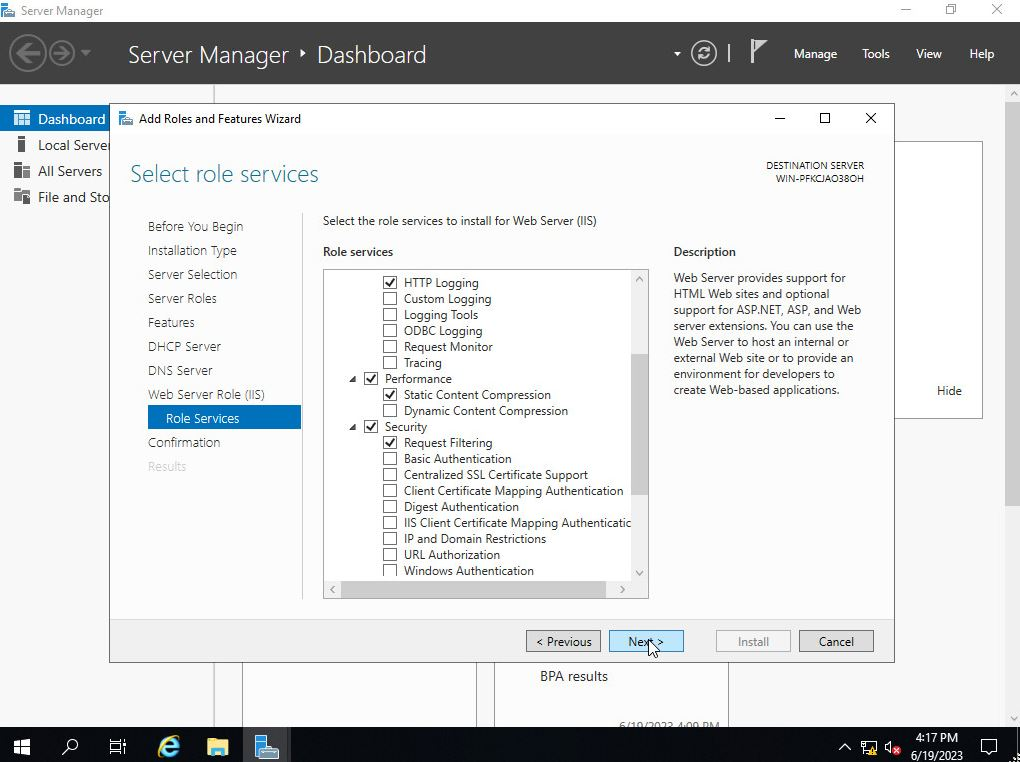
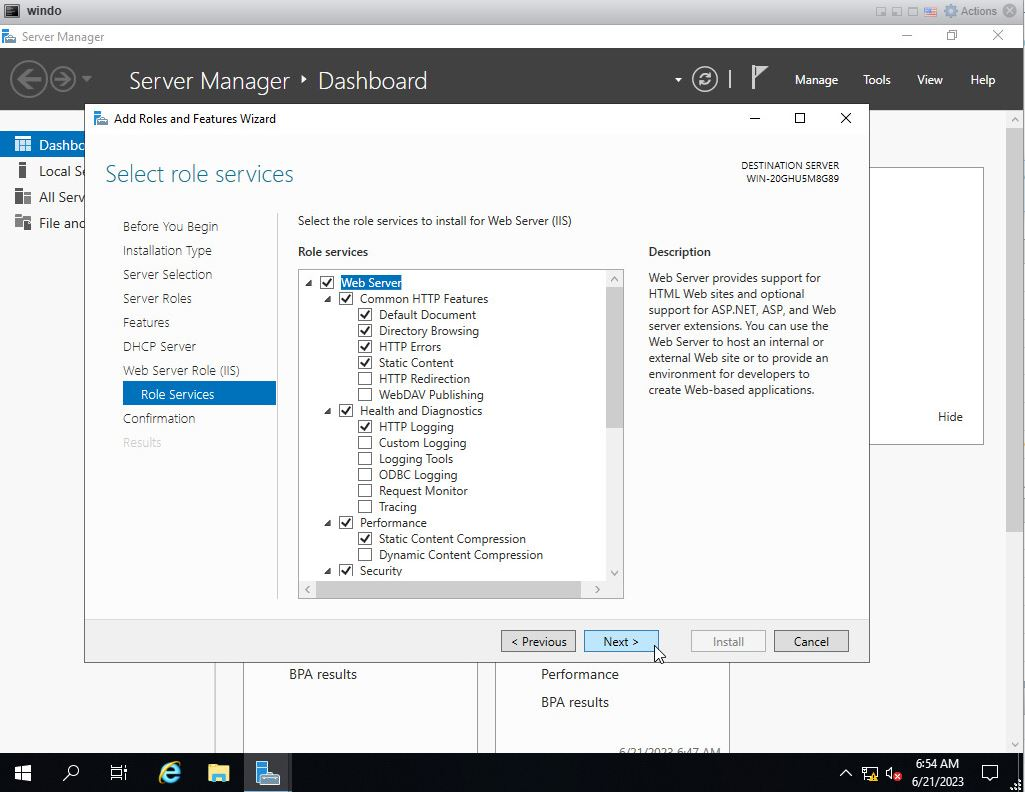
final proof

diff --git a/firstIsoVM.md b/firstIsoVM.md
@@ -123,7 +123,7 @@ We will be doing the following:
     10. click the checkbox next to the DHCP server role, then click 'add features' (screenshots [1](https://github.com/mynah22/Homelab-Guides/raw/main/screenshots/firstConfig/iso35.jpg) [2](https://github.com/mynah22/Homelab-Guides/raw/main/screenshots/firstConfig/iso36.jpg))
     10. click the checkbox next to the Web Server (IIS) role, then click 'add features' (screenshots [1](https://github.com/mynah22/Homelab-Guides/raw/main/screenshots/firstConfig/iso57.jpg) [2](https://github.com/mynah22/Homelab-Guides/raw/main/screenshots/firstConfig/iso58.jpg)
     11. click 'Next' 
-        ![screenshot](https://github.com/mynah22/Homelab-Guides/raw/main/screenshots/firstConfig/iso37.jpg)
+        ![screenshot](https://github.com/mynah22/Homelab-Guides/raw/main/screenshots/firstConfig/iso37_2.jpg)
     12. click 'Next' without adding any features ([screenshot](https://github.com/mynah22/Homelab-Guides/raw/main/screenshots/firstConfig/iso38.jpg))
     13. click 'Next' on the DHCP server screen ([screenshot](https://github.com/mynah22/Homelab-Guides/raw/main/screenshots/firstConfig/iso39.jpg))
     13. click 'Next' on the Web Server (IIS) screen ([screenshot](https://github.com/mynah22/Homelab-Guides/raw/main/screenshots/firstConfig/iso60.jpg))
@@ -132,14 +132,15 @@ We will be doing the following:
 - ## Configure Networking
     We are going to set a static IP for the windows server on the same subnet that we configured for PFSense above
 
-    1. right click start menu > network connections (screenshots [1](https://github.com/mynah22/Homelab-Guides/raw/main/screenshots/firstConfig/iso62.jpg)) [2](https://github.com/mynah22/Homelab-Guides/raw/main/screenshots/firstConfig/iso63.jpg)))
+    1. right click start menu > network connections (screenshots [1](https://github.com/mynah22/Homelab-Guides/raw/main/screenshots/firstConfig/iso62.jpg) [2](https://github.com/mynah22/Homelab-Guides/raw/main/screenshots/firstConfig/iso63.jpg)))
     2. click 'change adapter options'. Then, right click the Ethernet network and click 'Properties' (screenshots [1](https://github.com/mynah22/Homelab-Guides/raw/main/screenshots/firstConfig/iso65.jpg) [2](https://github.com/mynah22/Homelab-Guides/raw/main/screenshots/firstConfig/iso64.jpg)) 
     1. click 'Internet Protocol Version 4', then 'Properties' ([screenshot](https://github.com/mynah22/Homelab-Guides/raw/main/screenshots/firstConfig/iso66.jpg))
     1. IPV4 options ([screenshot](https://github.com/mynah22/Homelab-Guides/raw/main/screenshots/firstConfig/iso67.jpg))
         - Select the 'use the following IP address' radio button
-        - IP address: this will be the IP of the DNS, DHCP, and IIS server. It must be on the same subnet as the PFSense IP you configured for this interface
+        - IP address: this will be the IP of the windows server (therefore DHCP, and IIS). It must be on the same subnet as the PFSense IP you configured for this interface
         - Subnet mask: must match the subnet of the PFSense IP
-        - DNS servers: 127.0.0.1, 8.8.8.8
+        - Gateway: must be the PFSense IP on this interface
+        - DNS servers: 4.4.4.4, 8.8.8.8
         - Click 'OK'
     1. Close windows. You may see a pop up asking if you want to be discoverable on this network - click 'Yes' (screenshots [1](https://github.com/mynah22/Homelab-Guides/raw/main/screenshots/firstConfig/iso68.jpg) [2](https://github.com/mynah22/Homelab-Guides/raw/main/screenshots/firstConfig/iso68.jpg))
 - ## Configure DHCP server
@@ -220,7 +221,6 @@ We will be doing the following:
         - Destination port range: HTTP (80) (pick from drop down)
         - Click Save
     1. LAN to LAN3 HTTPS rule ([screenshot](https://github.com/mynah22/Homelab-Guides/raw/main/screenshots/firstConfig/iso103.jpg))
-        - Click 'LAN' ([screenshot](https://github.com/mynah22/Homelab-Guides/raw/main/screenshots/firstConfig/iso108.jpg))
         - Action: Pass
         - Interface: LAN
         - Address Family: IPv4
@@ -229,18 +229,18 @@ We will be doing the following:
         - Destination: LAN3 net
         - Destination port range: HTTPS (443) (pick from drop down)
         - Click Save
-    1. You should have three new rules set on LAN. MAke sure they are in this order, click 'apply changes' ([screenshot](https://github.com/mynah22/Homelab-Guides/raw/main/screenshots/firstConfig/iso110.jpg))
+    1. You should have three new rules set on LAN. Make sure they are in this order, click 'apply changes' ([screenshot](https://github.com/mynah22/Homelab-Guides/raw/main/screenshots/firstConfig/iso110.jpg))
 
 # Testing the network
 - ## LAN to LAN3 - HTTP(S) traffic passed
     We are hoping to be able to send port 80 and 443 traffic from LAN to LAN3, lets give it a try
     1. Ensure PC is plugged into the PFSense LAN interface
-    2. your IP configuration should have details matching the configuration of the PFSense DHCP server on LAN  ([screenshot](https://github.com/mynah22/Homelab-Guides/raw/main/screenshots/firstConfig/iso105.jpg))
+        - your PC's IP configuration should have details matching the configuration of the PFSense DHCP server on LAN  ([screenshot](https://github.com/mynah22/Homelab-Guides/raw/main/screenshots/firstConfig/iso105.jpg))
     3. browse to the static IP you assigned to the windows server (10.0.3.2 in my example) - you should see the default windows server page! congrats, LAN devices can open HTTP(S) connections to LAN3 ([screenshot](https://github.com/mynah22/Homelab-Guides/raw/main/screenshots/firstConfig/iso106.jpg))
 - ## LAN to LAN3 - other ports blocked
     We know that port 80 and 443 are being passed to LAN3, but let's make sure that no other ports are working
     1. With your PC still on LAN, ping the IP of the windows server - the ping packets should time out ([screenshot](https://github.com/mynah22/Homelab-Guides/raw/main/screenshots/firstConfig/iso107.jpg))
-    2. This is because icmp echo packets (the packets sent when you 'ping' are) not using TCP/UDP port 80 or 443, so they do not match our first two LAN firewall rule, but do match the third one which blocks the packets
+    2. This is because icmp echo packets (the packets sent when you 'ping' are) are not using TCP/UDP port 80 or 443, so they do not match our first two LAN firewall rule. They do match the third one which blocks the packets
 - ## LAN3 to WAN
     We would like the LAN3 devices to communicate with the internet. Let's make sure our firewall rules allow this
     1. Go back to ESXI and open your windows server console (screenshots [1](https://github.com/mynah22/Homelab-Guides/raw/main/screenshots/firstConfig/iso112.jpg) [2](https://github.com/mynah22/Homelab-Guides/raw/main/screenshots/firstConfig/iso113.jpg))
@@ -253,7 +253,7 @@ We will be doing the following:
 - ## DHCP 
     now that we know traffic is being routed as desired, let's make sure the windows DHCP server is working
     1. Plug your PC into LAN3. After a short while it should obtain DHCP configuration from your windows server ([screenshot](https://github.com/mynah22/Homelab-Guides/raw/main/screenshots/firstConfig/iso115.jpg))
-    2. Plug your PC back into a network where you can connect to your ESXI managment webpage (LAN), browse to the ESXI server iP,  and open the windows server VM console
+    2. Plug your PC back into a network where you can connect to your ESXI managment webpage (LAN), browse to the ESXI server IP,  and open the windows server VM console
     3. Open DHCP Manager ([screenshot](https://github.com/mynah22/Homelab-Guides/raw/main/screenshots/firstConfig/iso116.jpg))
     4. you should see the lease of your PC under your server name> IPv4> the scope you created> address leases
         ![screenshot](https://github.com/mynah22/Homelab-Guides/raw/main/screenshots/firstConfig/iso117.jpg)
